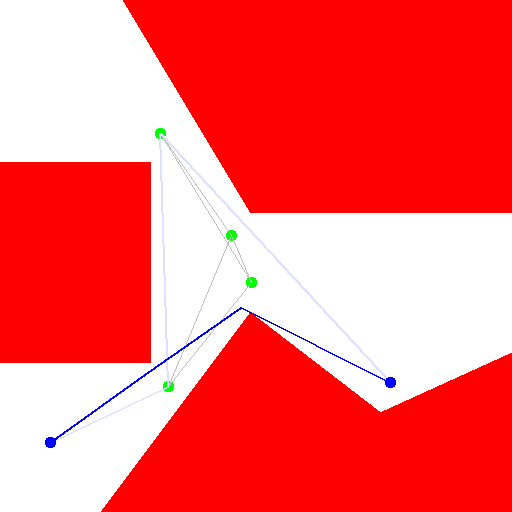
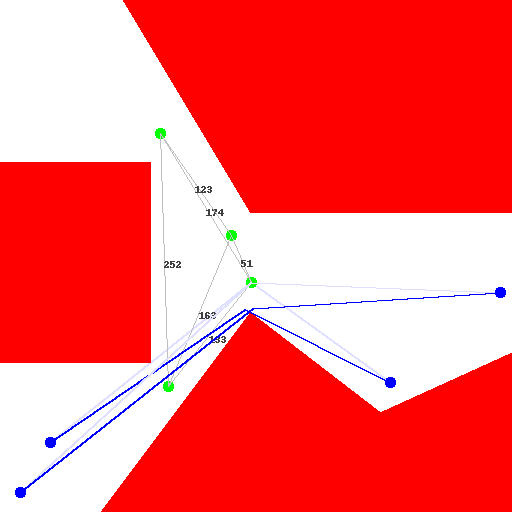
fix bugs on build path

diff --git a/path_finder.py b/path_finder.py
@@ -1,7 +1,8 @@
-from PIL import Image, ImageDraw
+from PIL import Image, ImageDraw, ImageFont
 from graph import *
 import random
 import math
+
 
 MAX_X = 512
 MAX_Y = 512
@@ -21,6 +22,11 @@ def draw_line(x0, y0, x1, y1, color=(0, 0, 0, 255), width=1):
     y0 = im.height - y0
     y1 = im.height - y1
     draw.line((x0, y0, x1, y1), fill=color, width=width)
+
+
+def draw_text(x, y, string):
+    font = ImageFont.load_default()
+    draw.text((int(x), int(im.height - y)), str(string), font=font, fill=(0, 0, 0, 192))
 
 
 def draw_point(x, y, radius=1, color=(0, 0, 0, 255)):
@@ -162,6 +168,9 @@ class MapDesc:
             draw_point(x, y, 5, GREEN)
         for link in self.graph.links:
             draw_line(link.a.x, link.a.y, link.b.x, link.b.y, color=(128, 128, 128, 128))
+            x = (link.a.x + link.b.x) / 2
+            y = (link.a.y + link.b.y) / 2
+            draw_text(x, y, int(link.weight))
 
     def draw_path(self, points, color=BLUE):
         if len(points) == 0:
@@ -250,10 +259,11 @@ if __name__ == '__main__':
 
     path = map.build_path((50, 70), (390, 130))
     map.draw_path(path, color=(128, 128, 255, 64))
+    map.draw()
     map.draw_path(map.improve_path(path))
 
     path = map.build_path((20, 20), (500, 220))
-    map.draw_path(path, color=(128, 128, 255, 255))
+    map.draw_path(path, color=(128, 128, 255, 64))
     map.draw_path(map.improve_path(path))
 
     im.save('path.png', "PNG")

diff --git a/graph.py b/graph.py
@@ -1,3 +1,4 @@
+import math
 
 INF = 10E+15
 
@@ -23,7 +24,9 @@ class Link:
         self.weight = 0
 
     def compute_weight(self):
-        self.weight = self.a.x * self.a.x + self.b.x * self.b.x
+        x = self.a.x - self.b.x
+        y = self.a.y - self.b.y
+        self.weight = int(math.sqrt(x * x + y * y))
 
 
 class Graph:
@@ -77,8 +80,11 @@ def dijkstra(graph, nodeA, nodeB):
         for link in node.links:
             weight = node.weight + link.weight
             neighbor = link.a if link.a != node else link.b
-            if not neighbor.visit and neighbor.weight > weight:
+            if neighbor.weight > weight:
                 neighbor.weight = weight
+
+        for link in node.links:
+            neighbor = link.a if link.a != node else link.b
             if not neighbor.visit:
                 wave(neighbor)
     wave(nodeA)
@@ -90,15 +96,15 @@ def dijkstra(graph, nodeA, nodeB):
         if node == nodeA:
             break
 
-        min_weight = INF
         next = None
         for i, link in enumerate(node.links):
             neighbor = link.a if link.a != node else link.b
-            if min_weight > neighbor.weight:
-                min_weight = neighbor.weight
+            if node.weight == neighbor.weight + link.weight:
                 next = neighbor
+                break
         node = next
     path.reverse()
+
     return path
 
 
